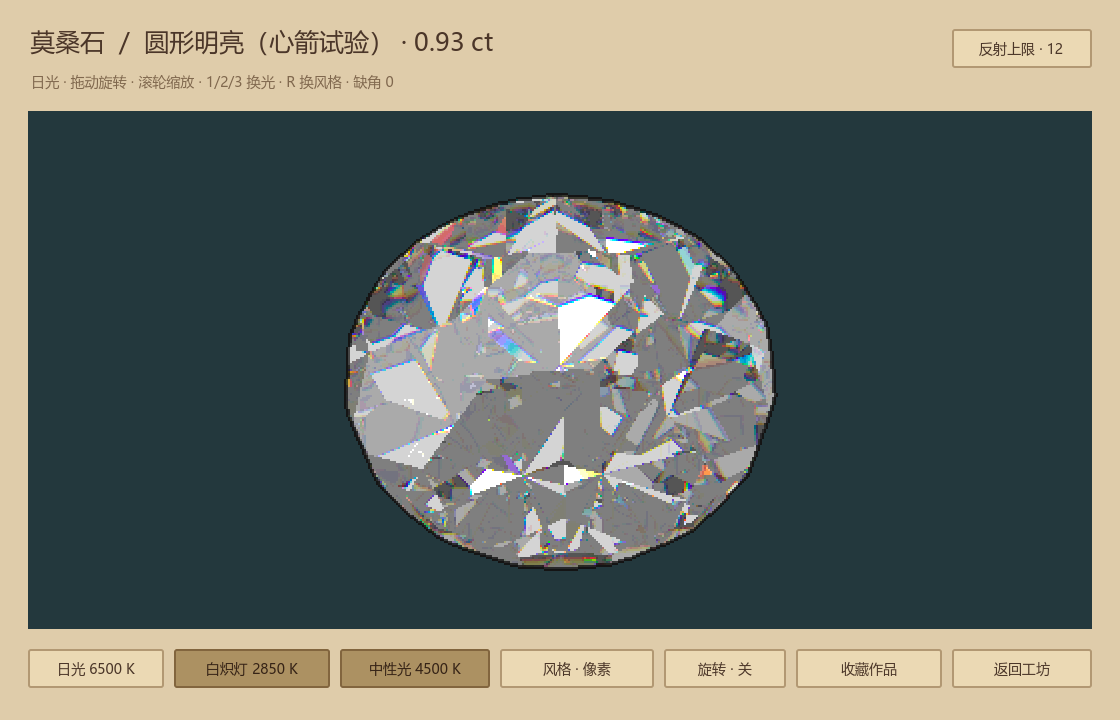
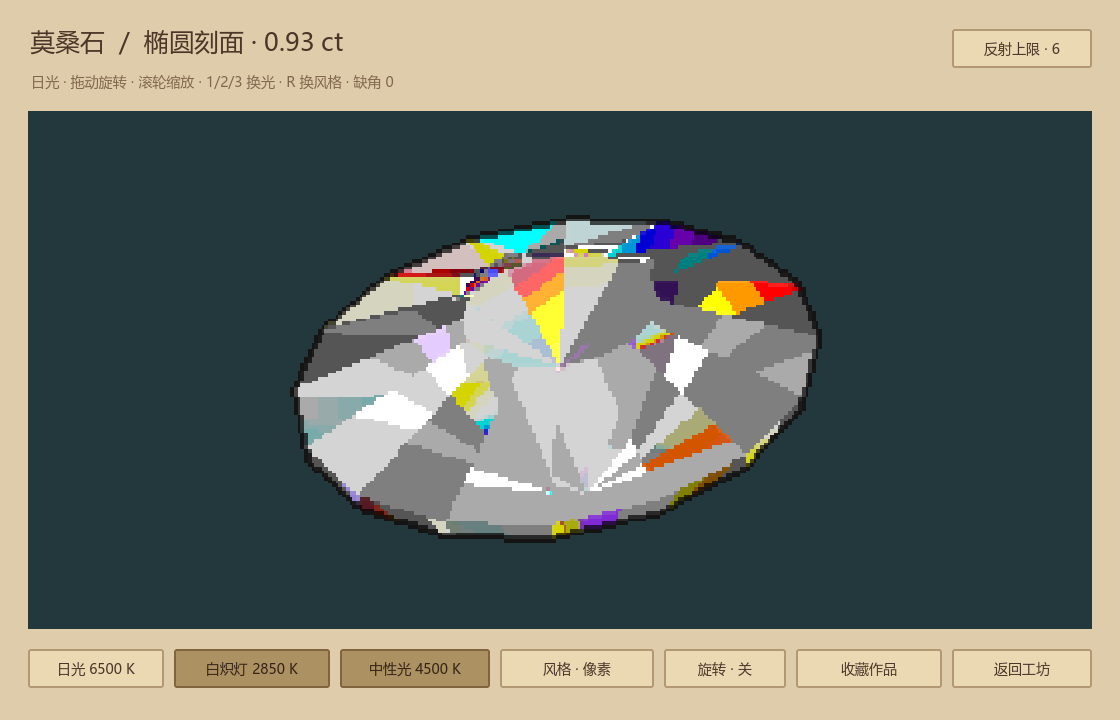
Improve pixel gem facet lighting and rough shading

diff --git a/README.md b/README.md
@@ -3,8 +3,8 @@
 挑一块原石，慢慢切出自己的宝石。做完换盏灯，转一转，再把它放进绒布收藏室。
 Choose a rough stone, cut and polish it, turn it under different lights, then keep it in your velvet-lined collection.
 
-**v0.11.0 Windows 体验版：10 种原料 × 10 种切工。**
-**v0.11.0 Windows preview: 10 materials × 10 cuts.**
+**v0.12.0 Windows 体验版：10 种原料 × 10 种切工。**
+**v0.12.0 Windows preview: 10 materials × 10 cuts.**
 
 [下载游戏 / Download](https://github.com/TimrayZ/gem-atelier/releases/latest) · [宣传素材 / Media kit](https://github.com/TimrayZ/gem-atelier/releases/download/v0.11.0/GemAtelier-v0.11.0-MediaKit.zip)
 
@@ -12,7 +12,7 @@ Choose a rough stone, cut and polish it, turn it under different lights, then ke
 
 ## 开始游玩 / Play
 
-1. 下载 **GemAtelier-v0.11.0-Windows-x64.zip**，完整解压，双击 **GemAtelier.exe**。无需安装 Godot，无需联网。
+1. 下载 **GemAtelier-v0.12.0-Windows-x64.zip**，完整解压，双击 **GemAtelier.exe**。无需安装 Godot，无需联网。
 2. 左侧选择原料，右侧选择切工；按右下角按钮逐步加工，或按 **F8** 自动完成后续工序。
 3. 成品拖动旋转、滚轮缩放，按 **1 / 2 / 3** 比较日光、白炽灯与中性光。
 4. 喜欢就收入收藏室。点击收藏中的宝石，可随时重新旋转、换光查看。
@@ -27,7 +27,7 @@ Requires 64-bit Windows 10/11 and OpenGL 3.3. Both render channels expose 6/12/2
 - **10 种原料**：亚历山大变石、紫水晶、蓝宝石、钻石、透明正长石、合成莫桑石、祖母绿、粉色尖晶石、金色托帕石、红宝石。
 - **10 种切工**：八角单翻、椭圆、八重对称、长方阶梯、圆形明亮（心箭试验）、枕形、梨形、马眼、切角三角、六边阶梯。圆形明亮尚未验证达到八心八箭。
 - 原生晶形与磨圆料可选；切削逐面移除实际体积，切歪、崩角也会保留在作品中。每面一次抛光，支持滴水冷却与压力选择。
-- 默认光谱像素材质，保留清晰刻面、通透感、反光与转动火彩。钻石随照明呈色，莫桑石使用更高色散，变石在日光和白炽灯下改变颜色。
+- 默认像素材质按前后刻面归并光影，采用多方向灯光和较大色块；随转动显示反光与火彩。钻石随照明呈色，莫桑石使用更高色散，变石在日光和白炽灯下改变颜色。
 - 大展台与独立绒布收藏室；按 **R** 切换像素／真实通道，两者均为纯色背景。
 - 左侧百科收录组成、典型晶形、硬度、韧性、解理、折射率与拟合吸收谱。
 - 支持导入 **GemCAD .asc / Gem Cut Studio .gcs** 常见平面刻面子集。压缩包“示例切工”包含两份等价的原创 CC0 练习设计。
@@ -66,8 +66,8 @@ Collect finished pieces to save the imported recipe and actual geometry. Saves a
 
 ## 模拟范围 / Simulation limits
 
-两个通道均沿实际凸实体追踪光路，包含 Snell 折射、Fresnel 分配、全反射、色散与 Beer–Lambert 路径吸收。像素通道使用 12 波段并量化明暗／颜色，真实通道使用 20 波段。呈色由光源光谱与拟合吸收共同决定；更高色散的火彩仍依赖切工、观察角与光源。
-Both channels trace the actual convex solid using Snell refraction, Fresnel splitting, total internal reflection, dispersion and Beer–Lambert path absorption. Pixel mode uses 12 spectral bands and quantized values/colours; detailed mode uses 20 bands. Source spectra and fitted absorption determine colour; visible fire depends on cut, view and illumination.
+两个通道均沿实际凸实体追踪光路，包含 Snell 折射、Fresnel 分配、全反射、色散与 Beer–Lambert 路径吸收。像素通道使用 12 波段与按前后刻面归并的采样，并量化明暗／颜色，真实通道使用 20 波段。呈色由光源光谱与拟合吸收共同决定；更高色散的火彩仍依赖切工、观察角与光源。
+Both channels trace the actual convex solid using Snell refraction, Fresnel splitting, total internal reflection, dispersion and Beer–Lambert path absorption. Pixel mode uses 12 spectral bands, facet-grouped sampling, stylized lights and quantized values/colours; detailed mode uses 20 bands. Source spectra and fitted absorption determine colour; visible fire depends on cut, view and illumination.
 
 吸收谱、晶向风险与温度阈值是游戏近似，未完整实现偏振、双折射、多色性、间接照明与焦散。细小混叠或转动闪烁仍可能出现。原石是简化单晶；缺角通过凸截面移除体积，不模拟凹入贝壳状破口。参数不用于现实加工指导。
 Spectra, cleavage risk and heat thresholds are gameplay approximations. Full polarization, birefringence, pleochroism, indirect illumination and caustics remain incomplete. Fine aliasing or shimmer may remain. Roughs are simplified single crystals; chips remove volume with convex planes rather than concave fractures. Parameters are not manufacturing guidance.
